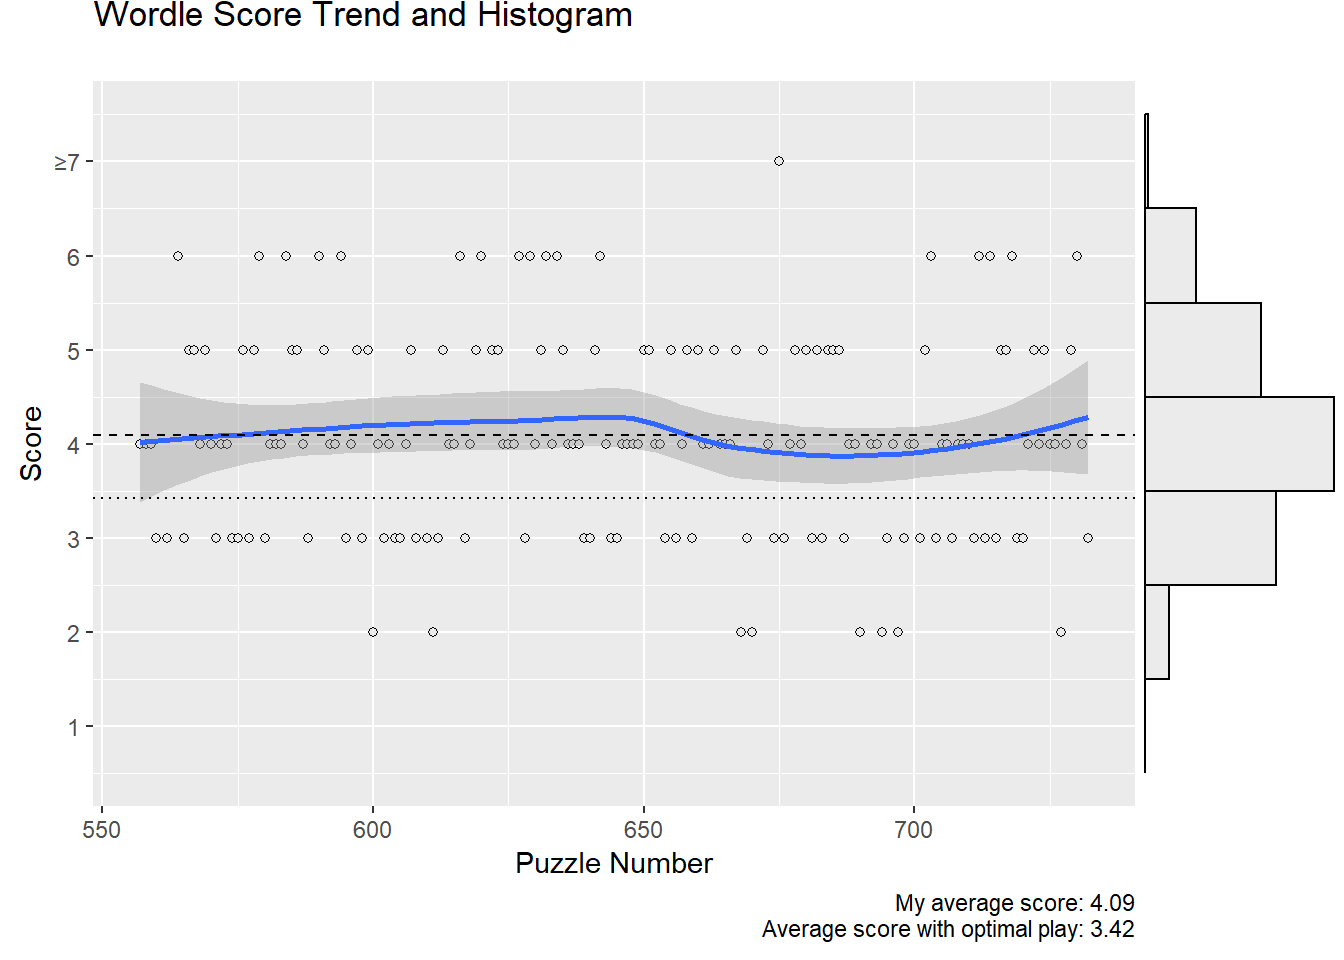
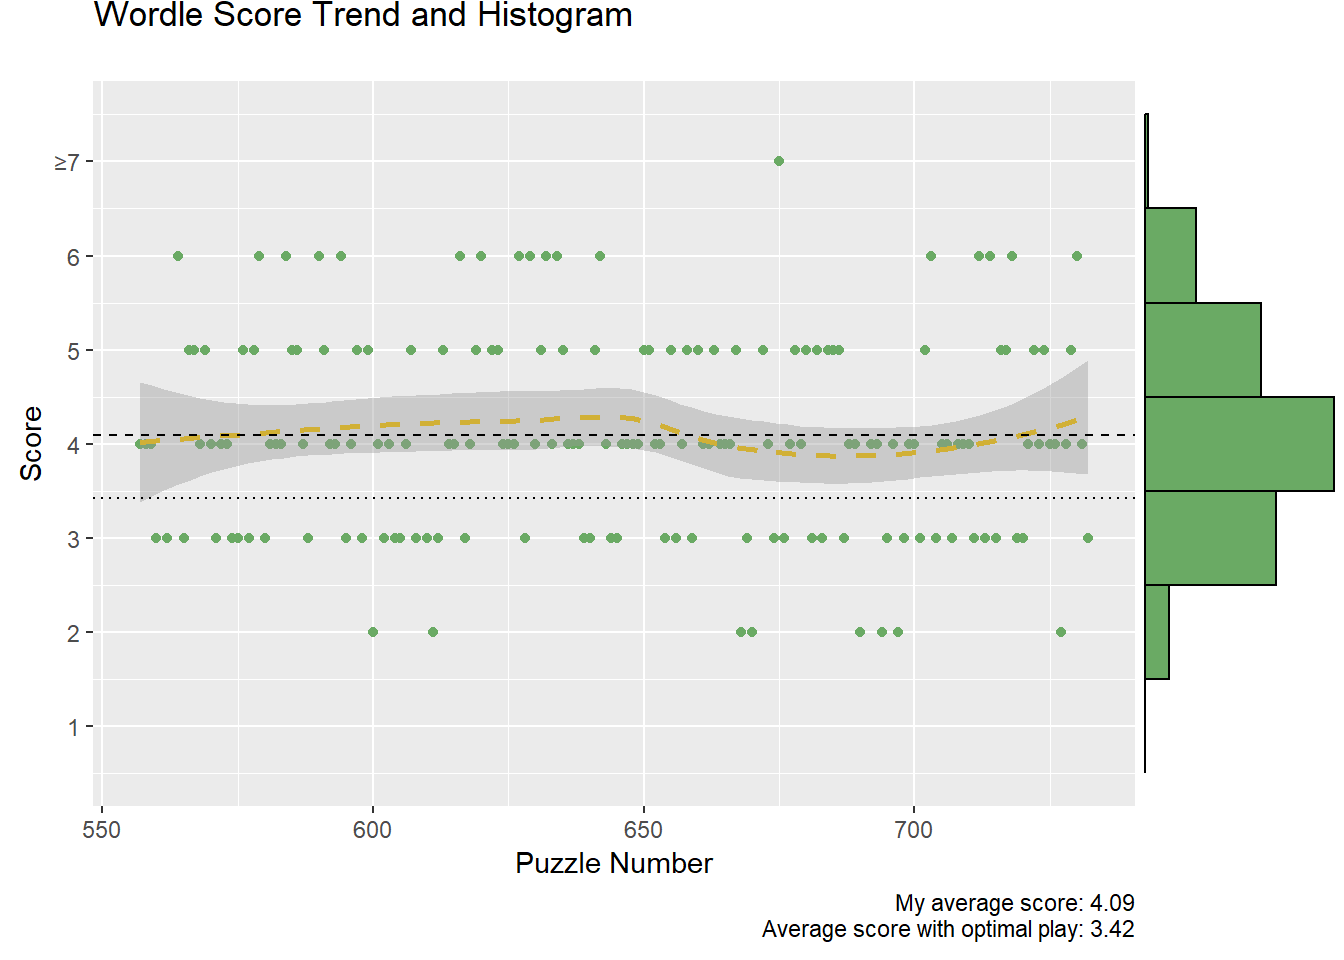
wordle score chart theming

diff --git a/posts/wordle_scores/wordle_scores.html b/posts/wordle_scores/wordle_scores.html
@@ -197,8 +197,8 @@ pre > code.sourceCode > span > a:first-child::before { text-decoration: underlin
 <summary>Code</summary>
 <div class="sourceCode cell-code" id="cb2"><pre class="sourceCode r code-with-copy"><code class="sourceCode r"><span id="cb2-1"><a href="#cb2-1" aria-hidden="true" tabindex="-1"></a>(wordle_scores <span class="sc">|&gt;</span></span>
 <span id="cb2-2"><a href="#cb2-2" aria-hidden="true" tabindex="-1"></a>  <span class="fu">ggplot</span>(<span class="fu">aes</span>(<span class="at">x =</span> puzzle, <span class="at">y =</span> score)) <span class="sc">+</span></span>
-<span id="cb2-3"><a href="#cb2-3" aria-hidden="true" tabindex="-1"></a>  <span class="fu">geom_point</span>(<span class="at">shape =</span> <span class="dv">21</span>, <span class="at">fill =</span> <span class="st">"#EBEBEB"</span>) <span class="sc">+</span></span>
-<span id="cb2-4"><a href="#cb2-4" aria-hidden="true" tabindex="-1"></a>  <span class="fu">geom_smooth</span>() <span class="sc">+</span></span>
+<span id="cb2-3"><a href="#cb2-3" aria-hidden="true" tabindex="-1"></a>  <span class="fu">geom_point</span>(<span class="at">colour =</span> <span class="st">"#6AAA64"</span>) <span class="sc">+</span></span>
+<span id="cb2-4"><a href="#cb2-4" aria-hidden="true" tabindex="-1"></a>  <span class="fu">geom_smooth</span>(<span class="at">colour =</span> <span class="st">"#D1B036"</span>, <span class="at">linetype =</span> <span class="st">"dashed"</span>) <span class="sc">+</span></span>
 <span id="cb2-5"><a href="#cb2-5" aria-hidden="true" tabindex="-1"></a>  <span class="fu">scale_y_continuous</span>(<span class="at">limits =</span> <span class="fu">c</span>(<span class="fl">0.5</span>, <span class="fl">7.5</span>), <span class="at">breaks =</span> <span class="dv">1</span><span class="sc">:</span><span class="dv">7</span>, <span class="at">labels =</span> <span class="fu">c</span>(<span class="dv">1</span><span class="sc">:</span><span class="dv">6</span>, <span class="st">"≥7"</span>)) <span class="sc">+</span></span>
 <span id="cb2-6"><a href="#cb2-6" aria-hidden="true" tabindex="-1"></a>  <span class="fu">labs</span>(<span class="at">title =</span> <span class="st">"Wordle Score Trend and Histogram"</span>, </span>
 <span id="cb2-7"><a href="#cb2-7" aria-hidden="true" tabindex="-1"></a>       <span class="at">x =</span> <span class="st">"Puzzle Number"</span>, </span>
@@ -208,7 +208,10 @@ pre > code.sourceCode > span > a:first-child::before { text-decoration: underlin
 <span id="cb2-11"><a href="#cb2-11" aria-hidden="true" tabindex="-1"></a>                        <span class="st">"</span><span class="sc">\n</span><span class="st">Average score with optimal play: 3.42"</span>)) <span class="sc">+</span></span>
 <span id="cb2-12"><a href="#cb2-12" aria-hidden="true" tabindex="-1"></a>  <span class="fu">geom_hline</span>(<span class="at">yintercept =</span> mean_score, <span class="at">linetype =</span> <span class="st">"dashed"</span>) <span class="sc">+</span> </span>
 <span id="cb2-13"><a href="#cb2-13" aria-hidden="true" tabindex="-1"></a>  <span class="fu">geom_hline</span>(<span class="at">yintercept =</span> <span class="fl">3.4201</span>, <span class="at">linetype =</span> <span class="st">"dotted"</span>)) <span class="sc">|&gt;</span></span>
-<span id="cb2-14"><a href="#cb2-14" aria-hidden="true" tabindex="-1"></a>  <span class="fu">ggMarginal</span>(<span class="at">type =</span> <span class="st">"histogram"</span>, <span class="at">margins =</span> <span class="st">"y"</span>, <span class="at">yparams =</span> <span class="fu">list</span>(<span class="at">bins =</span> <span class="dv">7</span>, <span class="at">center =</span> <span class="dv">0</span>, <span class="at">binwidth =</span> <span class="dv">1</span>, <span class="at">fill =</span> <span class="st">"#EBEBEB"</span>))</span></code><button title="Copy to Clipboard" class="code-copy-button"><i class="bi"></i></button></pre></div>
+<span id="cb2-14"><a href="#cb2-14" aria-hidden="true" tabindex="-1"></a>  <span class="fu">ggMarginal</span>(<span class="at">type =</span> <span class="st">"histogram"</span>, </span>
+<span id="cb2-15"><a href="#cb2-15" aria-hidden="true" tabindex="-1"></a>             <span class="at">margins =</span> <span class="st">"y"</span>, </span>
+<span id="cb2-16"><a href="#cb2-16" aria-hidden="true" tabindex="-1"></a>             <span class="at">fill =</span> <span class="st">"#6AAA64"</span>,</span>
+<span id="cb2-17"><a href="#cb2-17" aria-hidden="true" tabindex="-1"></a>             <span class="at">yparams =</span> <span class="fu">list</span>(<span class="at">bins =</span> <span class="dv">7</span>, <span class="at">center =</span> <span class="dv">0</span>, <span class="at">binwidth =</span> <span class="dv">1</span>))</span></code><button title="Copy to Clipboard" class="code-copy-button"><i class="bi"></i></button></pre></div>
 </details>
 <div class="cell-output-display">
 <div class="quarto-figure quarto-figure-center">
@@ -579,7 +582,7 @@ window.document.addEventListener("DOMContentLoaded", function (event) {
 });
 </script>
 </div> <!-- /content -->
-<script>var lightboxQuarto = GLightbox({"descPosition":"bottom","selector":".lightbox","closeEffect":"zoom","loop":true,"openEffect":"zoom"});</script>
+<script>var lightboxQuarto = GLightbox({"loop":true,"closeEffect":"zoom","descPosition":"bottom","selector":".lightbox","openEffect":"zoom"});</script>
 
 
 

diff --git a/posts.html b/posts.html
@@ -170,7 +170,7 @@ May 3, 2023
 </a>
 </div>
 </div>
-<div class="quarto-post image-right" data-index="1" data-listing-date-sort="1680235200000" data-listing-file-modified-sort="1687401135851" data-listing-date-modified-sort="NaN" data-listing-reading-time-sort="2">
+<div class="quarto-post image-right" data-index="1" data-listing-date-sort="1680235200000" data-listing-file-modified-sort="1687401837317" data-listing-date-modified-sort="NaN" data-listing-reading-time-sort="2">
 <div class="thumbnail">
 <p><a href="./posts/wordle_scores/wordle_scores.html"> <img src="./posts/wordle_scores/wordle_scores.png" class="thumbnail-image"> </a></p>
 </div>
